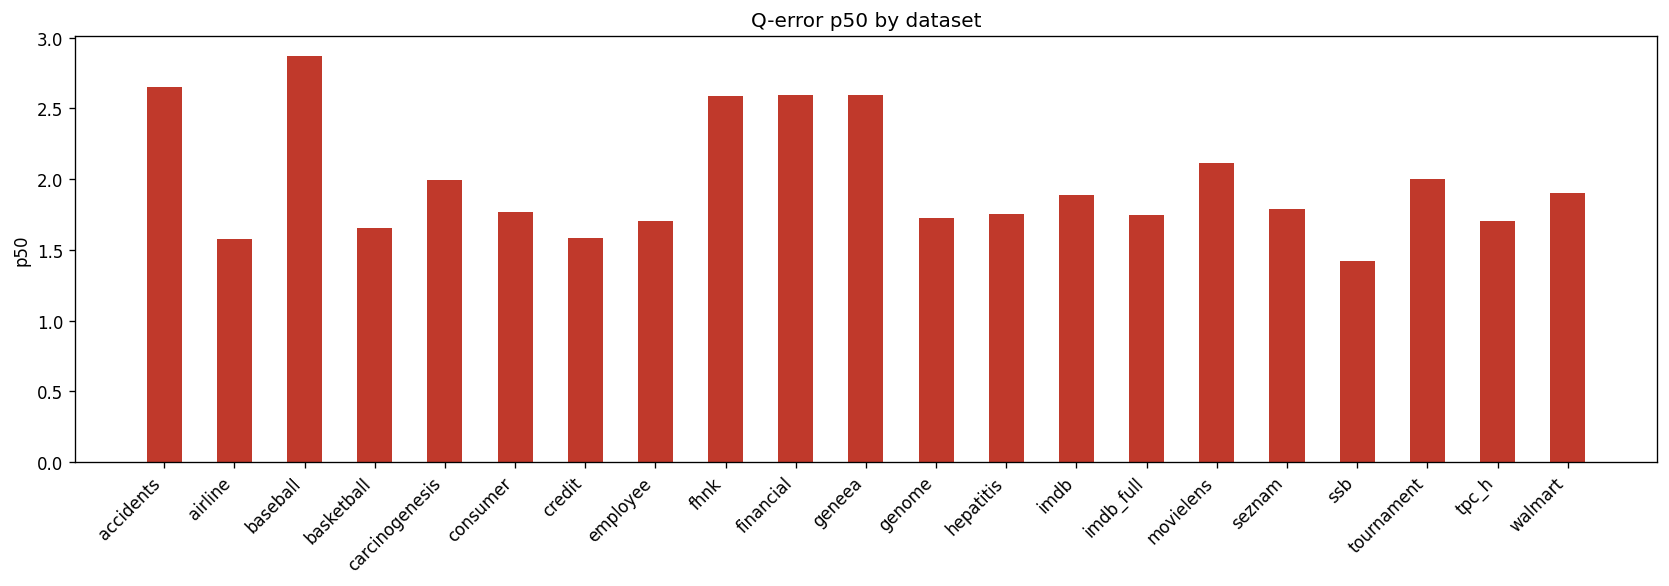
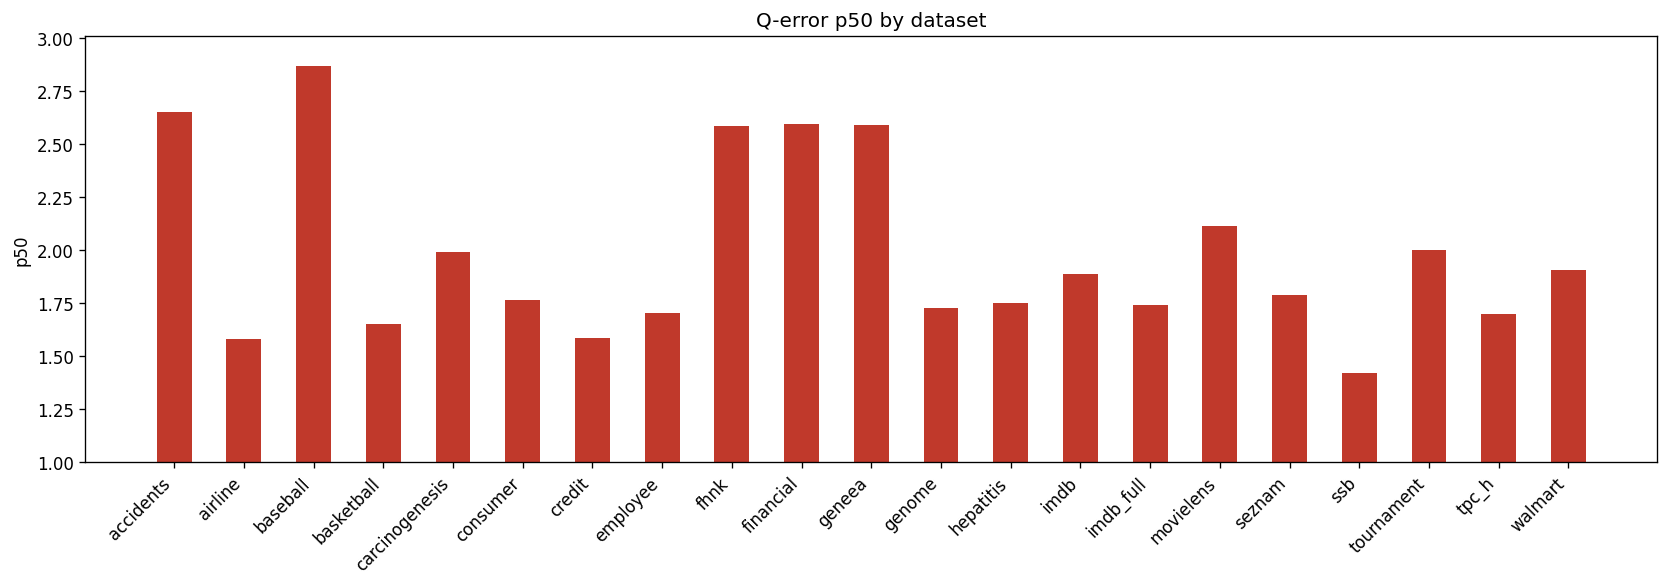
update nhe

diff --git a/holdout_to_md.py b/holdout_to_md.py
@@ -92,7 +92,7 @@ def main() -> None:
         ax.set_xticklabels(names, rotation=45, ha="right")
         ax.set_ylabel("p50")
         ax.set_title("Q-error p50 by dataset")
-        ax.set_ylim(0, None)
+        ax.set_ylim(1, None)
         fig.tight_layout()
         fig.savefig(BAR_CHART_PATH, dpi=120, bbox_inches="tight")
         plt.close(fig)
